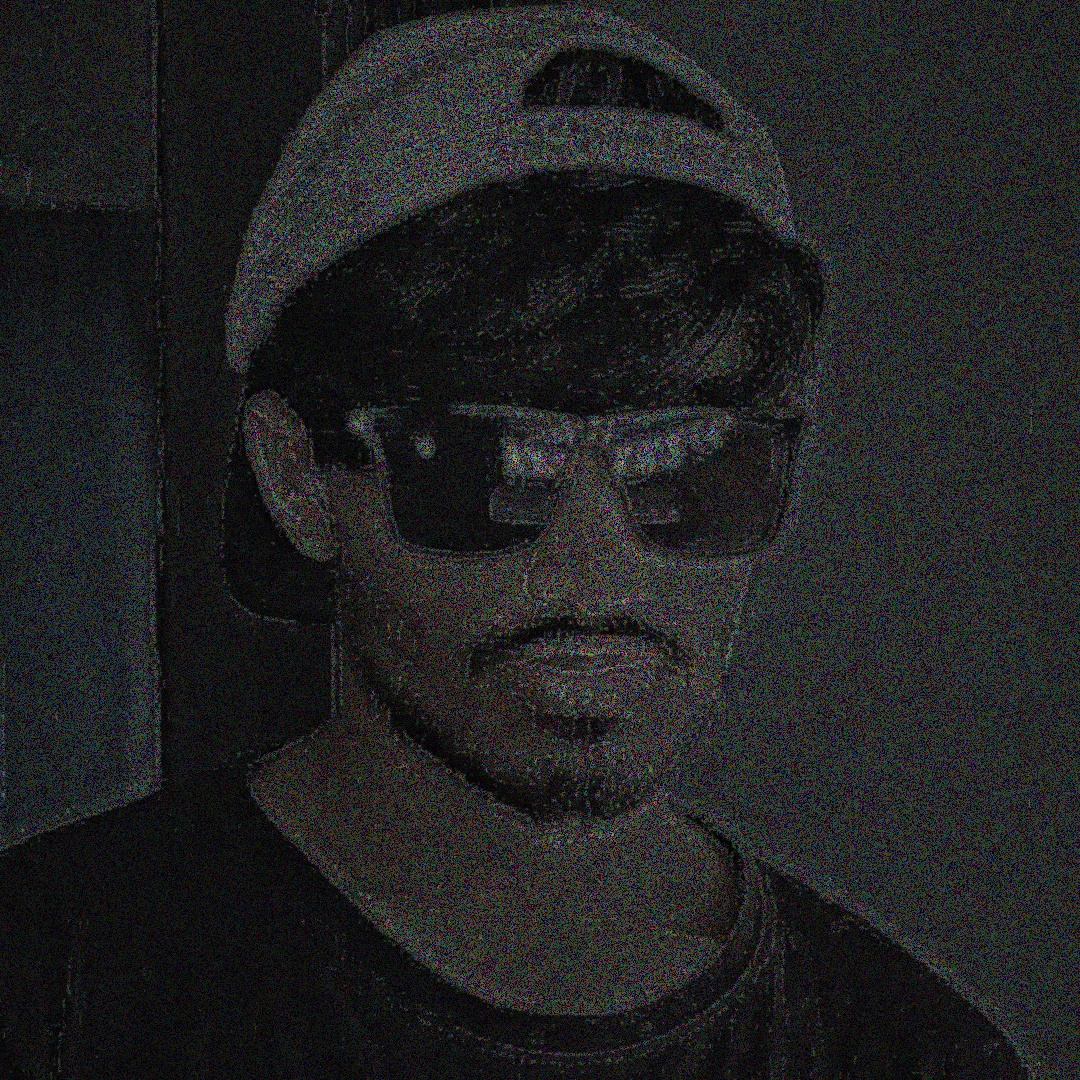
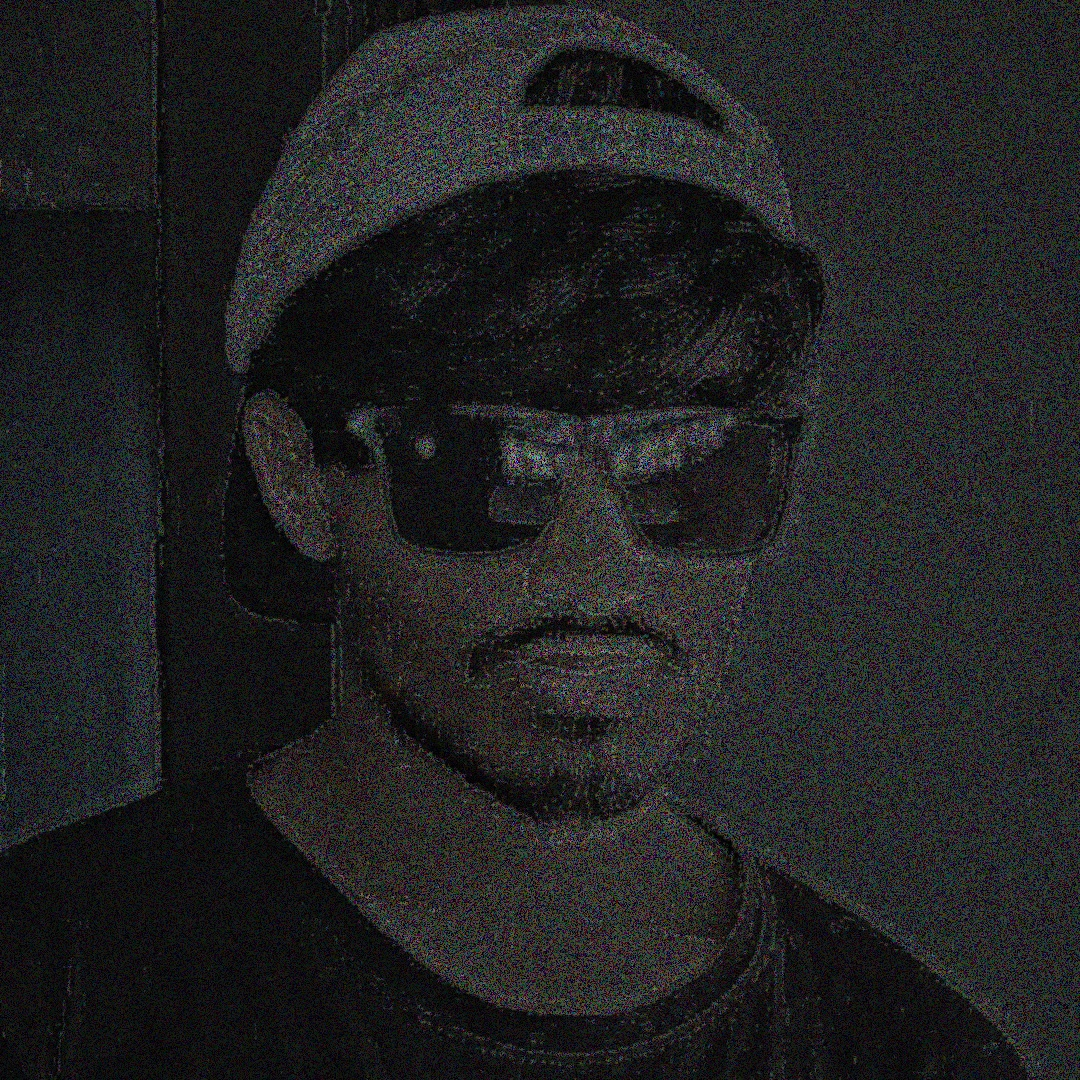
enhaced convert to watercolor

diff --git a/sketch_project/sketch_app/views.py b/sketch_project/sketch_app/views.py
@@ -112,7 +112,9 @@ def convert_to_sketch_pencil(image_path):
     cv2.imwrite(sketch_path, final)
     return sketch_path
 
-def convert_to_sketch_pencil1(image_path):
+#  convert to watercolor
+
+def convert_to_watercolor(image_path):
     img = cv2.imread(image_path)
     
     height, width = img.shape[:2]
@@ -120,60 +122,20 @@ def convert_to_sketch_pencil1(image_path):
     if height > max_dim or width > max_dim:
         scale = max_dim / max(height, width)
         img = cv2.resize(img, (int(width * scale), int(height * scale)))
+
+    img = cv2.edgePreservingFilter(img, flags=1, sigma_s=60, sigma_r=0.4)
+    water_color = cv2.stylization(img,sigma_s=60,sigma_r=0.6)
+
+    paper = np.ones_like(water_color)*240
+    grain = np.random.normal(0,2,paper.shape).astype(np.uint8)
+    paper =cv2.subtract(paper,grain)
+
+    paper = cv2.GaussianBlur(paper,(15,15),0)
+    water_color = cv2.addWeighted(water_color,0.85,paper,0.15,0)
+
     
-    
-    gray = cv2.cvtColor(img, cv2.COLOR_BGR2GRAY)
-    
- 
-    smooth = cv2.edgePreservingFilter(img, flags=1, sigma_s=60, sigma_r=0.4)
-    gray_smooth = cv2.cvtColor(smooth, cv2.COLOR_BGR2GRAY)
-    
-  
-    inverted = 255 - gray_smooth
-    blurred = cv2.GaussianBlur(inverted, (21, 21), 0)
-    
-     
-    sketch_div = cv2.divide(gray_smooth, 255 - blurred, scale=256)
-    
-    
-    thresh = cv2.adaptiveThreshold(gray, 255, cv2.ADAPTIVE_THRESH_GAUSSIAN_C, 
-                                   cv2.THRESH_BINARY, 11, 2)
-    
-    
-    thresh_inv = 255 - thresh
-    
- 
-    thresh_blur = cv2.GaussianBlur(thresh_inv, (3, 3), 0)
-    
-    
-    paper = np.ones_like(gray) * 235
-    paper = paper.astype(np.uint8)
-     
-    grain = np.random.normal(0, 3, paper.shape).astype(np.uint8)
-    paper = cv2.subtract(paper, grain)
- 
-    sketch = cv2.addWeighted(sketch_div, 0.6, thresh_blur, 0.4, 0)
- 
-    clahe = cv2.createCLAHE(clipLimit=2.0, tileGridSize=(8,8))
-    sketch = clahe.apply(sketch)
- 
-    kernel = np.ones((3, 3), np.float32)/25
-    smudge = cv2.filter2D(sketch, -1, kernel)
-    sketch = cv2.addWeighted(sketch, 0.7, smudge, 0.3, 0)
- 
-    rows, cols = sketch.shape
-    kernel_x = cv2.getGaussianKernel(cols, cols/5)
-    kernel_y = cv2.getGaussianKernel(rows, rows/5)
-    kernel = kernel_y * kernel_x.T
-    mask = 255 * kernel / np.linalg.norm(kernel)
-    sketch = sketch * (mask * 0.3 + 0.7)
-    
-  
-    sketch = cv2.multiply(sketch.astype(np.float32)/255, paper.astype(np.float32)/255) * 255
-    sketch = sketch.astype(np.uint8)
-    
-    sketch_path = image_path.replace('.jpg', '_pencil1.jpg')
-    cv2.imwrite(sketch_path, sketch)
+    sketch_path = image_path.replace('.jpg', '_watercolor.jpg')
+    cv2.imwrite(sketch_path, water_color)
     return sketch_path
 
 def convert_to_colored_pencil(image_path):
@@ -313,7 +275,7 @@ def uploadImage(request):
            
             sketch_path1 = convert_to_sketch_edges(upload_image.image.path)  
             sketch_path2 = convert_to_sketch_pencil(upload_image.image.path)  
-            sketch_path3 = convert_to_sketch_pencil1(upload_image.image.path)  
+            sketch_path3 = convert_to_watercolor(upload_image.image.path)  
             sketch_path4 = convert_to_sketch_edges1(upload_image.image.path)  
             sketch_path5 = convert_to_colored_pencil(upload_image.image.path)  
             sketch_path6 = convert_to_colored_pencil1(upload_image.image.path)  
@@ -322,7 +284,7 @@ def uploadImage(request):
             sketchurl1 = upload_image.image.url.replace('.jpg', '_edges.jpg')
             sketchurl2 = upload_image.image.url.replace('.jpg', '_edges1.jpg')
             sketchurl3 = upload_image.image.url.replace('.jpg', '_pencil.jpg')
-            sketchurl4 = upload_image.image.url.replace('.jpg', '_pencil1.jpg')
+            sketchurl4 = upload_image.image.url.replace('.jpg', '_watercolor.jpg')
             sketchurl5 = upload_image.image.url.replace('.jpg', '_pencil_colored.jpg')
             sketchurl6 = upload_image.image.url.replace('.jpg', '_pencil_colored1.jpg')
     
